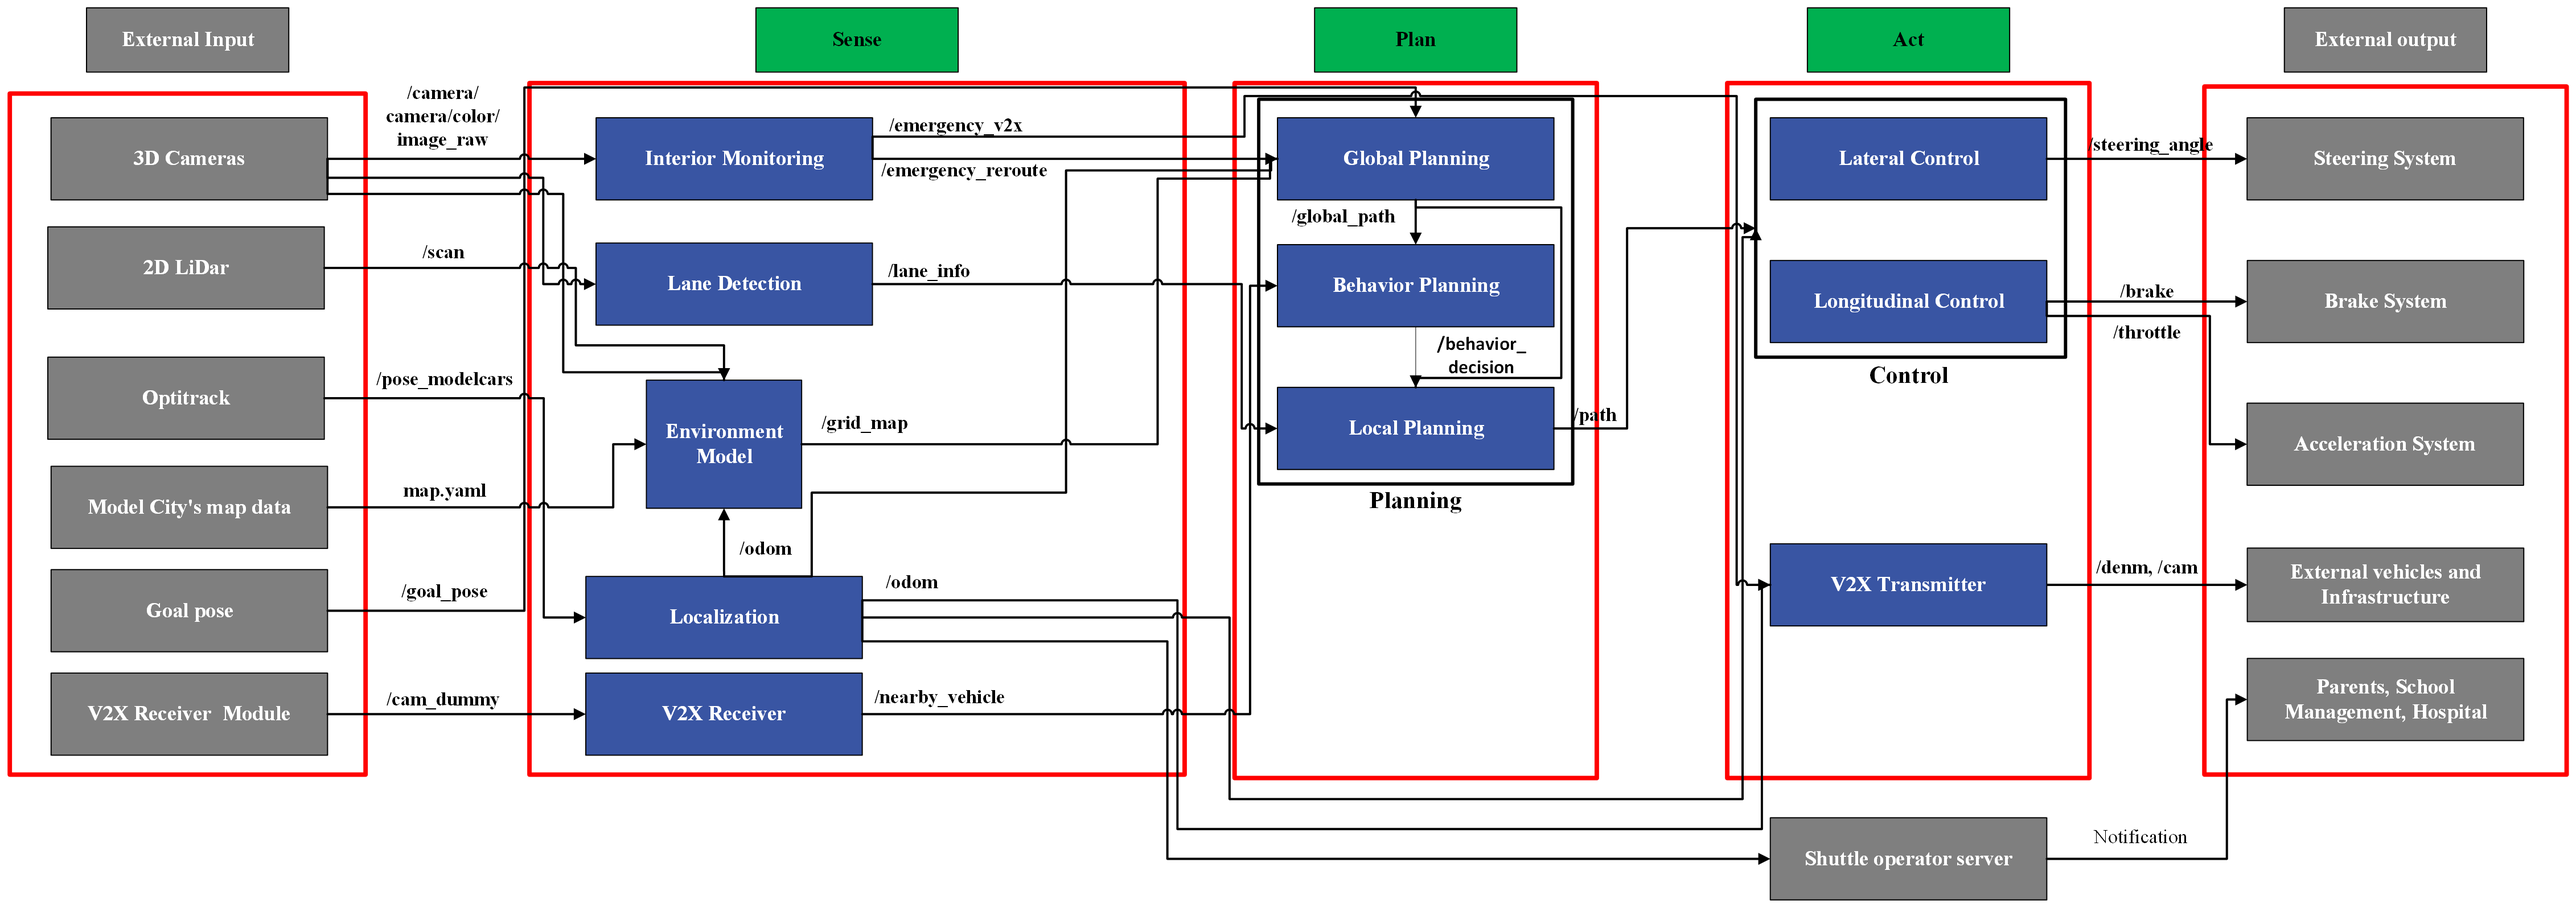
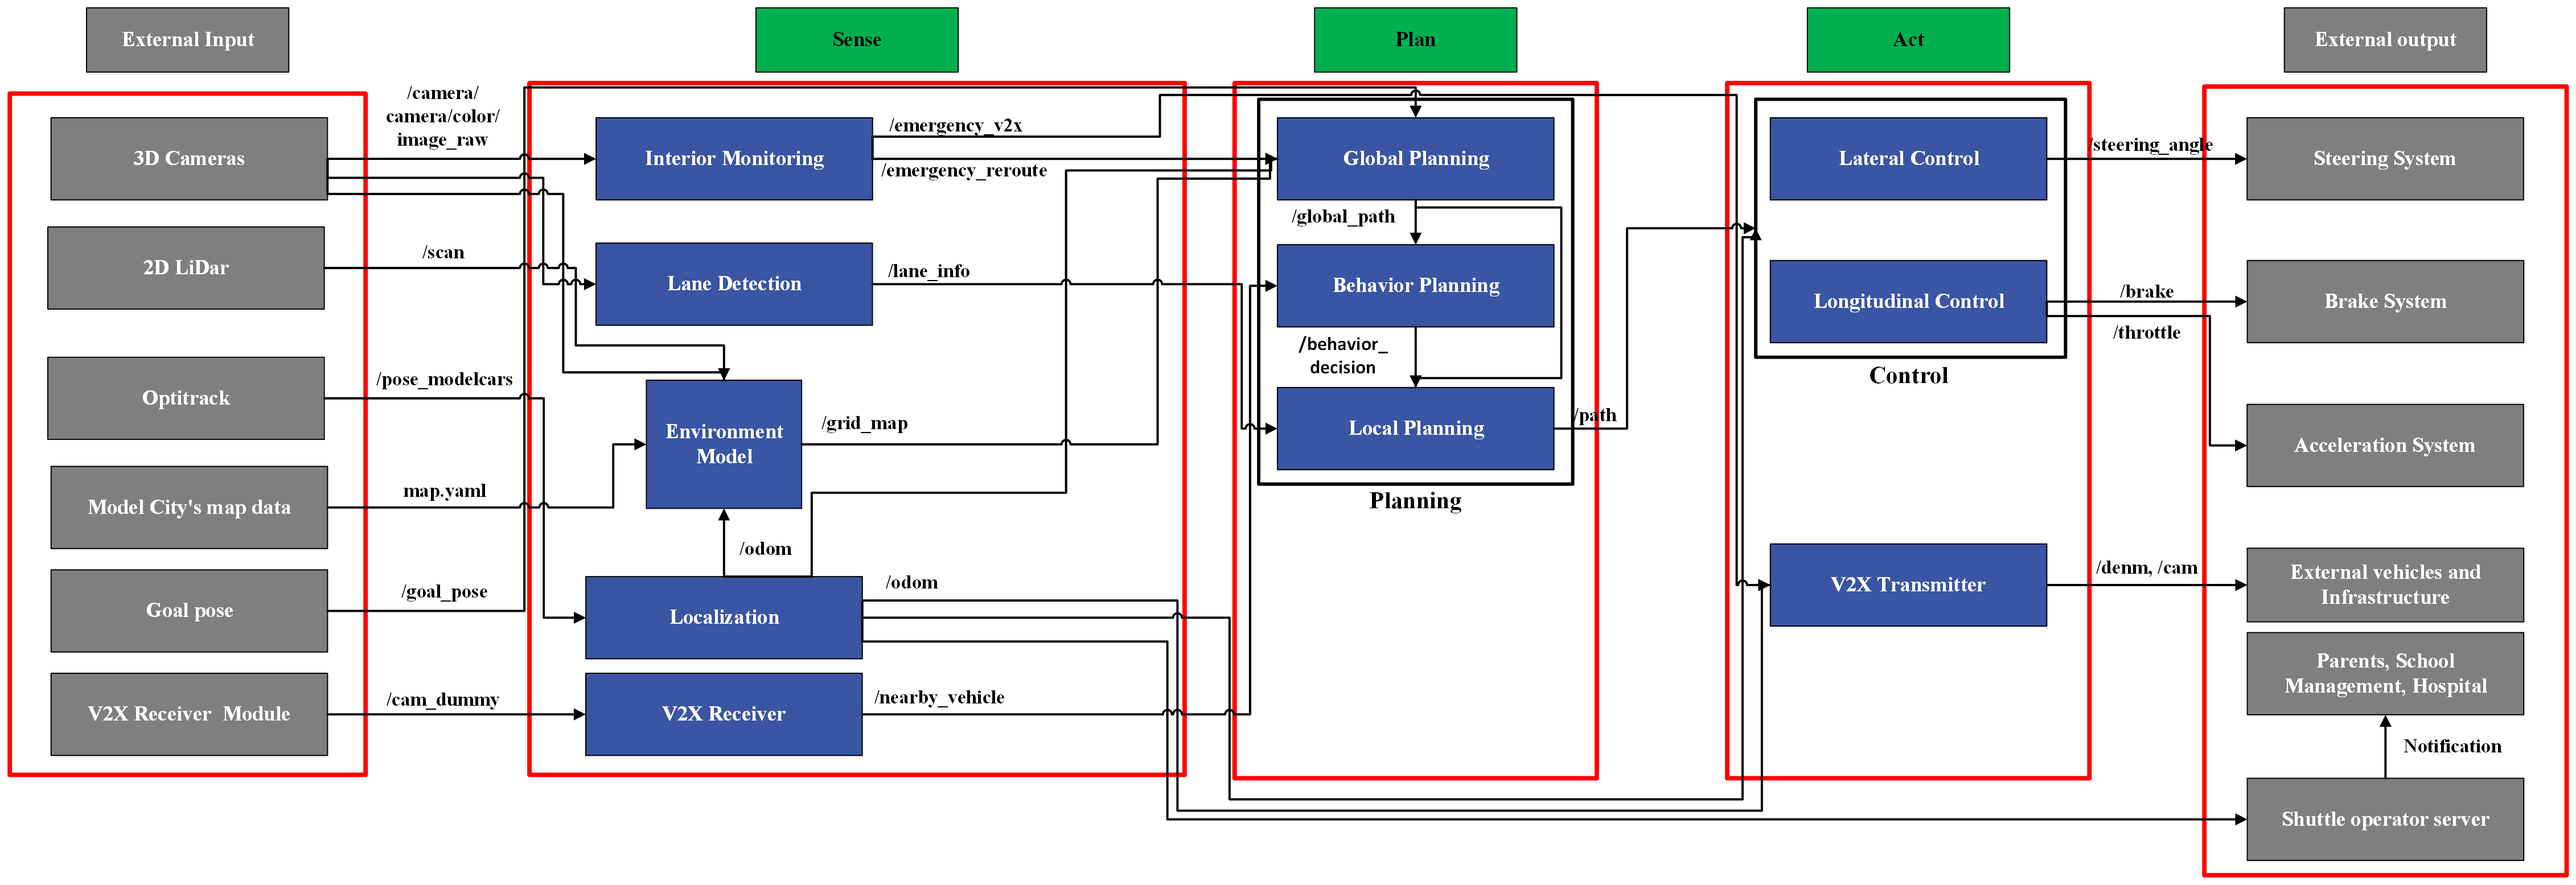
update README.md and block diagram

diff --git a/README.md b/README.md
@@ -33,8 +33,8 @@ Story map is a visual tool used in agile development to organize product require
 This section consists of the technical specifications of our product. [Block diagram](#block-diagram) describes the high level layered architecture of our ROS2 product, and within each layer of *Sense, Plan, Act* we have 11 independent submodules work together. There are three Behavioral UML diagrams related to our system architecture are described below: [State Diagram](#state-diagram), [Activity Diagram](#activity-diagram) and [Sequence Diagram](#sequence-diagram).
 
 ## Block diagram
-At the topmost hierarchy of our architecture, our system adopts a layered architecture structured into three main layers: *Sense*, *Plan*, and *Act*. Within each layer, we employed a loose coupling component-based architecture, whereby all components can be interchangeable and independent of each other. Each individual component is independent to handle specific tasks and only communicates with each other using publisher/subscriber model and possible other communication methods such as service request and response within ROS2. Modules **<span style="color:#7f7f7f;">color-coded in grey</span>** fall under the **External Input and Output** categories, meaning they are not part of our project deliverables—we simply utilize them to receive inputs and send outputs. Meanwhile, **<span style="color:#3955a3;">blue-colored modules</span>** represent the key components that our team is responsible for delivering.  
-⚠ *Note: This diagram is subject to change based on evolving project deliverables.*
+At the topmost hierarchy of our architecture, our system adopts a layered architecture structured into three main layers: **<span style="color:#00b050;">Sense</span>**,  **<span style="color:#00b050;">Plan</span>**, and **<span style="color:#00b050;">Act</span>**. Within each layer, we employed a loose coupling component-based architecture, whereby all components can be interchangeable and independent of each other. Each individual component is independent to handle specific tasks and only communicates with each other using publisher/subscriber model and possible other communication methods such as service request and response within ROS2. Modules **<span style="color:#7f7f7f;">color-coded in grey</span>** fall under the **External Input and Output** categories, meaning they are not part of our project deliverables—we simply utilize them to receive inputs and send outputs. Meanwhile, **<span style="color:#3955a3;">blue-colored modules</span>** represent the key components that our team is responsible for delivering.
+:warning: *Note: This diagram is subject to change in the future based on evolving project deliverables.*
 ![Block Diagram](doc/block_diagram.png)
 
 ### Component responsibilities
@@ -189,13 +189,15 @@ This section covered project management related topics. It ensures that projects
 ### Use Case 1: Normal Scenario – Path to School
 The model car starts from its initial start point, travels to two pickup points, and finally reaches its destination (School). The car will follow predefined lanes, stop at traffic lights, and be aware of obstacles and other vehicles in the environment. The car will use V2X communication to interact with the traffic lights and other vehicles.
 ### Required V2X Messages (ETSI Standards):
-- **SPAT:** - Signal Phasing And Timing message is used to know the current traffic signal status at intersection to make appropiate decision.
-- **CAM:** - Co-operative Awareness Message is used to know the position, orientation and speed of nearby vehicles and at a same time used to publish the host vehicle position and speed.
+- **SPAT:** - **Signal Phasing And Timing message** is used to know the current traffic signal status at intersection to make appropiate decision.
+- **CAM:** - **Co-operative Awareness Message** is used to know the position, orientation and speed of nearby vehicles and at a same time used to publish the ego-vehicle position and speed.
 
 ### Use Case 2: Medical Emergencies Scenario – Reroute to Hospital
-The model car starts from its initial start point, travels to the first pickup point. After departing from the first pickup point and on the way to the second pick up point, medical emergencies are detected and the model car is rerouted to nearby Hospital. The car will cut through the traffic to reach the destination faster, use V2X communication to control traffic light to show green and notify nearby vehicles that the car is having medical emergencies.
+The model car starts from its initial start point, travels to the first pickup point. After departing from either the first pickup point or the second pick up point, medical emergencies are detected and the model car is rerouted to nearby Hospital. The car will cut through the traffic to reach the destination faster, use V2X communication to control traffic light to show green and notify nearby vehicles that the car is having medical emergencies.
 ### Required V2X Messages (ETSI Standards):
-- **DENM:** - Dencentralized Environmental Notification Message is used to inform the nearby vehicles to make a way to the shuttle during emergency situation.
+- **SPAT:** - *(As mentioned above)*
+- **CAM:** - *(As mentioned above)*
+- **DENM:** - **Dencentralized Environmental Notification Message** is used to inform the nearby vehicles to make a way during emergency situation happened on the ego-vehicle.
 
 ## Milestone
 ![Milestone](doc/milestone.png)
